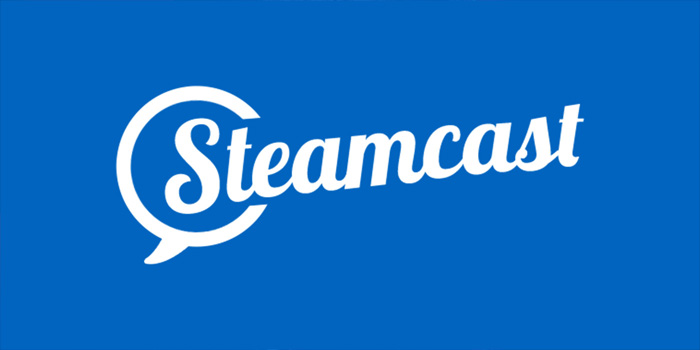
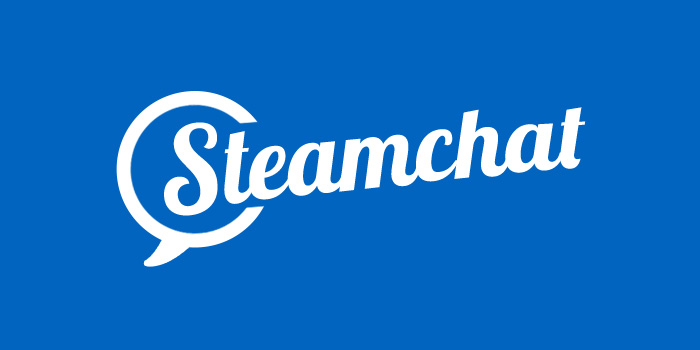
Updated Steamcast project (WIP)

Changed region(s): [[0.15, 0.2286, 0.84, 0.7143], [0.21, 0.7143, 0.27, 0.7714], [0.33, 0.6571, 0.36, 0.6857]]

diff --git a/projects/steamchat/index.php b/projects/steamchat/index.php
@@ -14,49 +14,48 @@
 
 		<h4>The Idea</h4>
 
-		<p>After the controversial announcement of the video game <i>Left 4 Dead 2</i> in early June of 2009, I, along with two of my friends, Brad and Saurabh, created the Steamchat podcast (formely "Steamcast") in order to vent our frustrations. The show was born from community voices, and therefore it was created and dedicated to the community, and would focus its product and discussions around them.</p>
+		<p>After the controversial announcement of the video game <i>Left 4 Dead 2</i> in early June of 2009, I, along with two of my friends Brad and Saurabh, created the Steamchat podcast (formerly "Steamcast"). The show was born from community voices, and therefore it was created and dedicated to the community, and would focus its product and discussions around them.</p>
 
-	</div>
-
-	<div class="section">
-
-		<h4>Challenges</h4>
+		<h4 class="spacer">Challenges</h4>
 
 		<p>The main challenge was to create a podcast that differentiated itself from the majority of other video game-related podcasts, while still remaining interesting. The aim was to create a more listener-engaged show, where listeners would not only able to dictate the focus of the podcast but also contribute directly.</p>
 
-		<p>Another challenge was to create an engaging website. Most podcast websites are designed as a simple directory, listing each podcast as they are released with only a title, description, and download link. Even though the majority of the work was focused on the podcast episode production, we felt it was important to create an engaging website to make checking for new episodes exciting.</p>
+		<p>Another challenge was to create an engaging website. Most podcast websites are designed as a simple directory, listing each podcast as they are released with only a title, description, and download link. Even though the majority of the work was focused on the podcast episode production, we felt it was important to create a unique website to make checking for new episodes exciting.</p>
 
-	</div>
+		<h4 class="spacer">Result</h4>
 
-	<div class="section">
+		<p>The success of a podcast not only lies in how it is structured and the production quality, but also in the hosts themselves, in two aspects. The first aspect is the chemistry between the hosts, in that the conversation between the hosts has to feel natural and balanced. The second aspect is what the hosts themselves bring to the chemistry; in the case of Steamchat, all three hosts had a different attitude towards the subject matter. For instance, Brad brought an artistic view to discussions whereas Saurabh provided a more consumer-based perspective. This created a good balance between passion/emotion and objectivity/pragmatism. The unique chemistry between the hosts and their respective attitudes and personalities was a major factor in the success of Steamchat.</p>
 
-		<h4>Result</h4>
+		<p>Focusing the show on the community greatly helped its growth in the early stages. Having a commitment to community members and their thoughts meant that Steamchat grew a strong initial listenership, both unique and returning. As the show grew from there, community members would contribute content to the show that helped it grow, most notably the <a href="http://www.thesteamchat.com/episode.php?type=episode&number=9">first interview with Valve co-founder Gabe Newell</a>.</p>
 
-		<p>The success of a podcast not only lies in how it is structured and the production quality, but also in the hosts themselves in two aspects. The first aspect is the chemistry between the hosts, in that the conversation between the hosts felt natural and also balanced. The second aspect is what the hosts themselves bring to the chemistry; in the case of Steamchat, all three hosts tended to have a different attitude towards the subject matter, for instnace with Brad bringing an artistic view to discussions and Saurabh providing a more consumer-based view. This created a good balance between passionate/emotional and objective/pragmatic-based discussions. The unique chemistry between the hosts and their respective attitudes and personalities was a major factor in the success of Steamchat.</p>
+		<p>The structure of the episodes were a key element in the quality of Steamchat episodes. Each episode started with reading listener emails, sharing their thoughts and answering their questions. We continually suggested listeners to send in their thoughts, as narratives would form over a number of episodes, resulting in a higher recurring listenership. The discussion moved on to the latest industry news and announcements, which served not only to update the listeners on the latest happenings in the industry, but also to provide unique discussions stemming from the chemistry of the hosts. The episodes would end with open-ended discussions about key subject matters, usually suggested by listeners.</p>
 
-		<p>Focusing the show on the community greatly helped its growth in the early stages. Having a commitment to community members and their thoughts meant that we grew quite a decent initial listenership and returning. As the show grew from there, community members would contribute things to the show that helped it grow, most notably the <a href="http://www.thesteamchat.com/episode.php?type=episode&number=9">first interview with Valve co-founder Gabe Newell</a>.</p>
+		<p>This community-contributed content helped the show grow exponentially over the next year. At the height of the show, we achieved a monthly listenership of over 15,000 and an annual viewership of over 4,000,000, in addition to publishing more interviews and exclusive features, including:</p>
 
-		<p>The structure of the episodes was a key element in the quality of Steamchat episodes. Each episode started with reading listener emails, sharing their thoughts and discussion their questions. We continuly suggested listeners to send in their thoughts, as narratives would form over several episodes, resulting in higher recurring listenership. The discussion moved on to the latest industry news and announcements, which served not only to update listeners on the latest happenings in the industry, but also to provide unique discussions stemming from the chemistry of the hosts. The shows would end with open-ended discussions about key subject matters.</p>
+		<ul>
+			<li><a href="http://www.thesteamchat.com/episode.php?type=episode&number=47">Gabe Newell 2011 Interview</a></li>
+			<li><a href="http://www.thesteamchat.com/episode.php?type=episode&number=9">Gabe Newell 2009 Interview</a></li>
+			<li><a href="http://www.thesteamchat.com/episode.php?type=snack&number=3">Interview with Jonathan Coulton</a></li>
+			<li><a href="http://www.thesteamchat.com/episode.php?type=snack&number=2">Interview with Harry Robins</a></li>
+		</ul>
 
-		<p>This community-contributed content helped the show grow exponentially over the next year, resulting in more interviews and exclusive features. At the height of the show, we achieved a monthly listenership of over 15,000 and an annual viewership of over 4,000,000.</p>
+		<?php project_image("joyce_image_1.jpg", "The homepage featured a dramatic header image that also served as an interactive audio player for the latest episode. The header images were edited to overlay the navigation for dramatic effect."); ?>
 
-		<?php project_image("joyce_image_1.jpg", "The front-page featured a dramatic header image that also served as an interactive audio-player for the latest episode. The header images were edited to overlay the header for dramatic effect."); ?>
-
-		<p>The website helped improve the quality of the listening experience. The frontpage featured a large header that served as an audio player for the latest episode. Users could click on the header from the edges of the screen to seek through the episode audio, or click on the episode's title to go directly to the episode page. This, combined with a large dramatic header image, guided users towards the latest episode without making it difficult for them to browse the archives.</p>
+		<p>The website helped improve the quality of the listening experience. The homepage featured a large header that served as an audio player for the latest episode. Users could click on the header from the edges of the screen to seek through the episode audio, or click on the episode's title to go directly to the episode page. This, combined with a large dramatic header image, guided users towards the latest episode without making it difficult for them to browse the archives.</p>
 
 		<?php project_video("HWoNdplJcn4", "A looping video leading up to the live recording would show the latest news and interesting information."); ?>
 
-		<p>Each episode was recorded live using the Twitch live-streaming service. A page was created on the website that featured a live countdown to the start of each episode. Two hours before the live episode recording, a looping video would play that featured the latest news and some interesting facts from the video game industry. The video was editied each week in Apple Motion.</p>
+		<p>Each episode was recorded live using the Twitch live-streaming service. A page was created on the website that featured a live countdown to the start of each episode. Two hours before the live episode recording, a looping video would play that featured the latest news and some interesting facts from the video game industry. The video was edited each week in Apple Motion.</p>
 
-		<p>The website used two RSS feeds, one for MP3 files and one for M4A files. The MP3 files were first created in Adobe Soundbooth where the audio was cleaned and edited, and then the M4A files was created in Apple GarageBand in order to create iTunes and iOS-supported podcast chapters. Timestamps were also edited into the shownotes after episode editing. This process usually took two to three days.</p>
+		<p>The website used two RSS feeds, one for MP3 files and one for M4A files. The MP3 files were first created in Adobe Soundbooth where the audio was cleaned and edited, and then the M4A files was created in Apple GarageBand in order to create iTunes and iOS-supported podcast chapters. Timestamps were also edited into the show notes after episode editing. This process usually took two to three days.</p>
 
 		<h5>Conclusion</h5>
 
-		<p>Steamchat was incredibly successful, and was also a massive learning experience. This was the first time I had personally undertaken a project of this manner, and I am incredibly proud of what Brad, Saurabh and I were able to produce. A lot of the success was due to how we structured the show and the chemistry between the hosts. Furthermore, and more importantly, it was also due to the contributions that our listeners had made the show, both between and during episodes. Without structuring and building the podcast around its listeners, and without their passion and contributions, Steamchat would not have reached the success it had.</p>
+		<p>Steamchat was incredibly successful, and was also a massive learning experience. This was the first time I had personally undertaken a project of this manner, and I am incredibly proud of what Brad, Saurabh, and I were able to produce. A lot of the success was due to how we structured the show and the chemistry between the hosts. Furthermore however, and more importantly, it was also due to the contributions that our listeners had made to the show, both between and during episodes. Without structuring and building the podcast around its listeners, and without their passion and contributions, Steamchat would not have reached the success it had.</p>
 
-		<p>Not only did I learn a lot regarding audio editing and website development, but I gained quite a bit of insight into managing a project of Steamchat's nature, both in terms of organization and ???. The main lesson I learnt is that consistency in schedule is the most important factor of a project of this nature. Users and listeners can get accustomed to expecting new content on certain days of the week, and may even shape their daily routine around it. Many of our listeners emailed us explaining that they would listen to the podcast while at the gym or driving to work, so making sure we released episodes on time and on schedule was incredibly important for our listenership.</p>
+		<p>Not only did I learn a lot regarding audio editing and website development, but I gained quite a bit of insight into managing and organising project of Steamchat's nature. The main lesson I learnt is that consistency and schedule is incredibly important for a podcast. Users and listeners can get accustomed to expecting new content on certain days of the week, and may even shape their daily routine around it. Many of our listeners emailed us explaining that they would listen to the podcast while at the gym or driving to work, so making sure we released episodes on time and on schedule was incredibly important for our listenership</p>
 
-		<p>It also improved my communication skills. Firstly, it taught me how to deal with both positive and negative feedback, learning to politely praise those who praised us, but also listen to and understand feedback that listeners had given us in order to improve the show. Having a show structured around interactions with the community, it was very important that we communicated with them correctly and built a healthy and positive relationship. Secondly, it also taught me how to discuss a variety of different issues with two very different hosts. It improved my communication skills in a way that I was able to appreciate their opinions and perspective, and not only provide interesting and provocative feedback and responses, but also in such a manner that was not only easy for the other hosts to understand, but also for the listeners.</p>
+		<p>It also improved my communication skills. Firstly, it taught me how to deal with both positive and negative feedback, learning to politely praise those who praised us, but also listen to and understand feedback that listeners had given us in order to improve the show. Having a show structured around interactions with the community, it was very important that we communicated correctly and built a healthy and positive relationship with them. Secondly, it also taught me how to discuss a variety of different issues with two very different personalities. It improved my ability to communicate in a way that I was able to appreciate their opinions and perspectives, and not only provide interesting and provocative feedback and responses, but also in such a manner that was not only easy for the other hosts to understand, but also for the listeners.</p>
 
 	</div>
 
